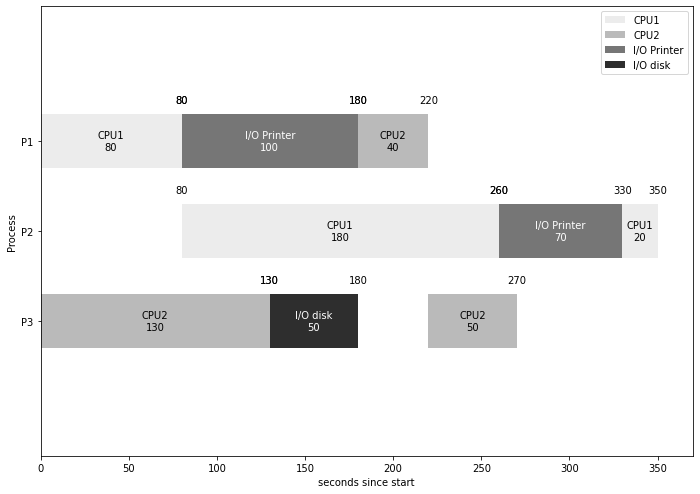
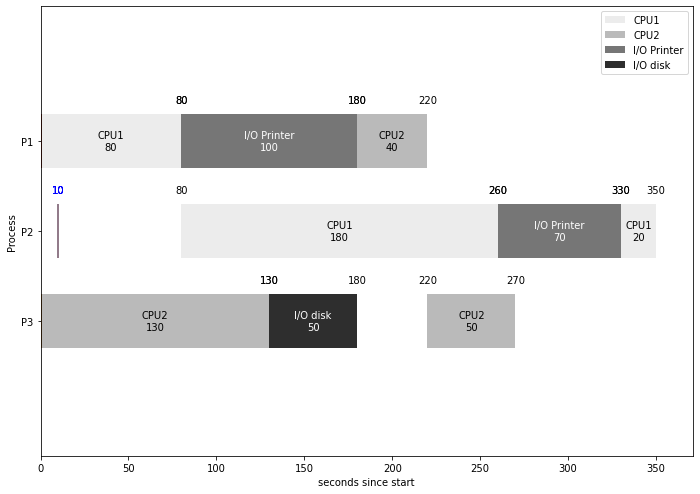
add program arrival time

diff --git a/gantt.py b/gantt.py
@@ -4,19 +4,19 @@ import matplotlib.patches as mpatch
 import numpy as np
 
 
-def gantt(category_names, results):
+def gantt(category_names, results, arrival_t):
     fig, gnt = plt.subplots(figsize=(11.69, 8.27))
 
     lables = list(results.keys())
     num_lables = len(lables)
     data = list(results.values())
     max_time = max([sum(seg)
-                   for lable in data for segs in lable for seg in segs])
+                    for lable in data for segs in lable for seg in segs])
 
     yticks = np.linspace(num_lables*10+5, 15, num_lables)
 
     gnt.set_ylim(0, num_lables*10+20)
-    gnt.set_xlim(0, max_time+20)
+    gnt.set_xlim(0, max_time*1.06)
 
     gnt.set_xlabel('seconds since start')
     gnt.set_ylabel('Process')
@@ -40,11 +40,15 @@ def gantt(category_names, results):
             for j, seg in enumerate(segs):
                 gnt.text((2*seg[0]+seg[1])/2, (y_lb+y_ub)/2, name+'\n'+str(seg[1]),
                          color=inner_text_color, ha='center', va='center')
-                if j == 0 and seg[0] != 0:
+                if seg[0] != 0:
                     gnt.text(seg[0], y_ub+1, str(seg[0]),
                              ha='center', va='bottom')
                 gnt.text(seg[0]+seg[1], y_ub+1, str(seg[0]+seg[1]),
                          ha='center', va='bottom')
+            gnt.errorbar(arrival_t[i], yticks[i], seg_height/2)
+            if arrival_t[i] != 0:
+                gnt.text(arrival_t[i], y_ub+1, str(arrival_t[i]),
+                         ha='center', va='bottom', color='blue')
 
     fakebar = [mpatch.Rectangle((0, 0), 1, 1, fc=category_color)
                for category_color in category_colors]
